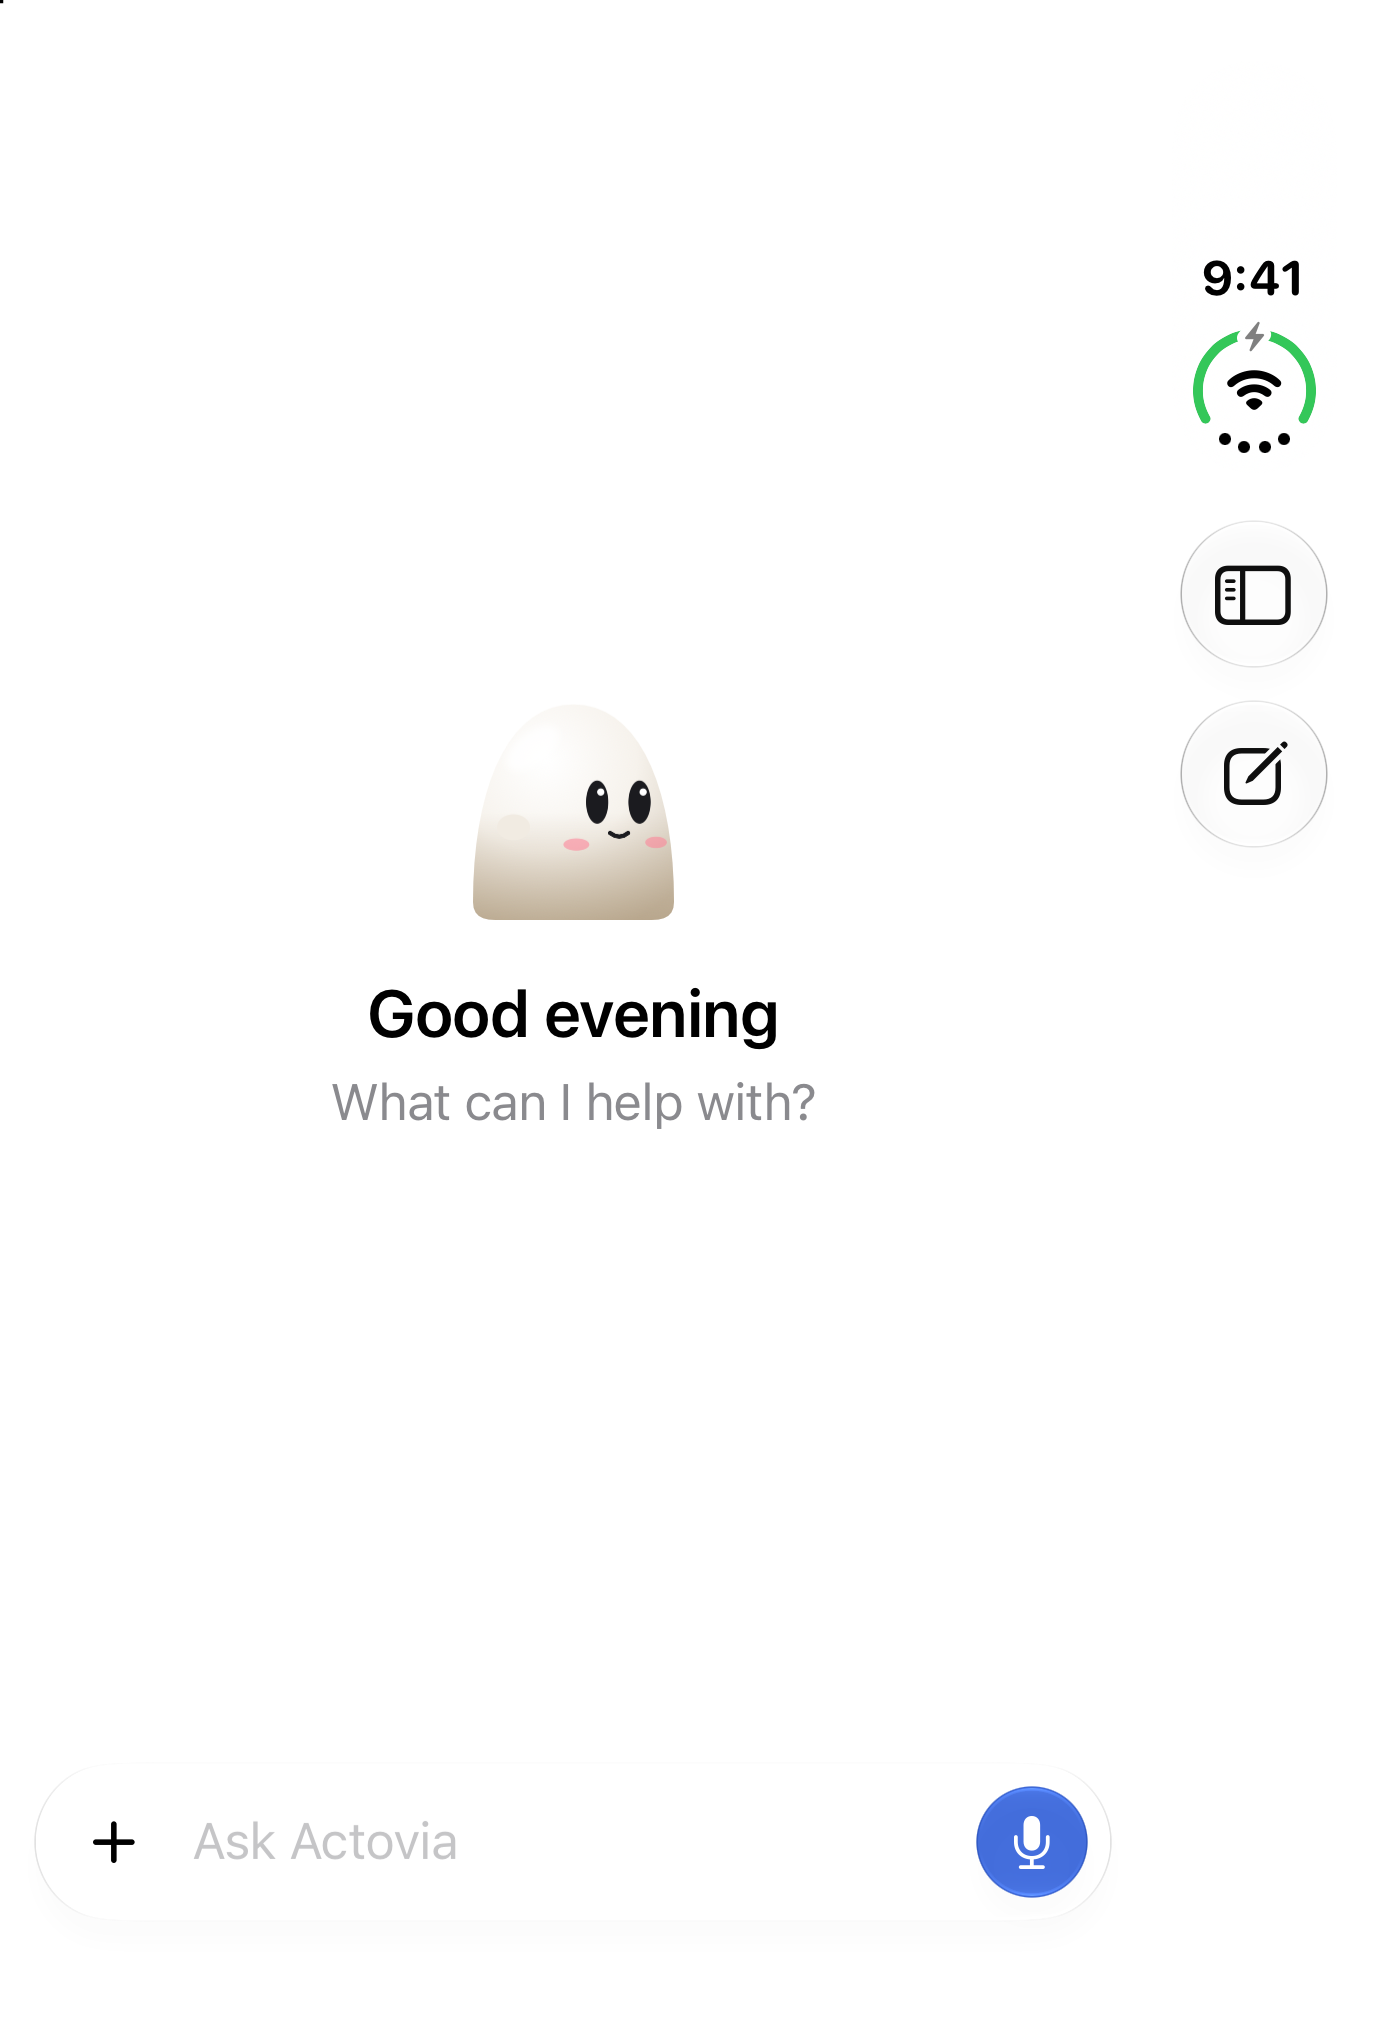
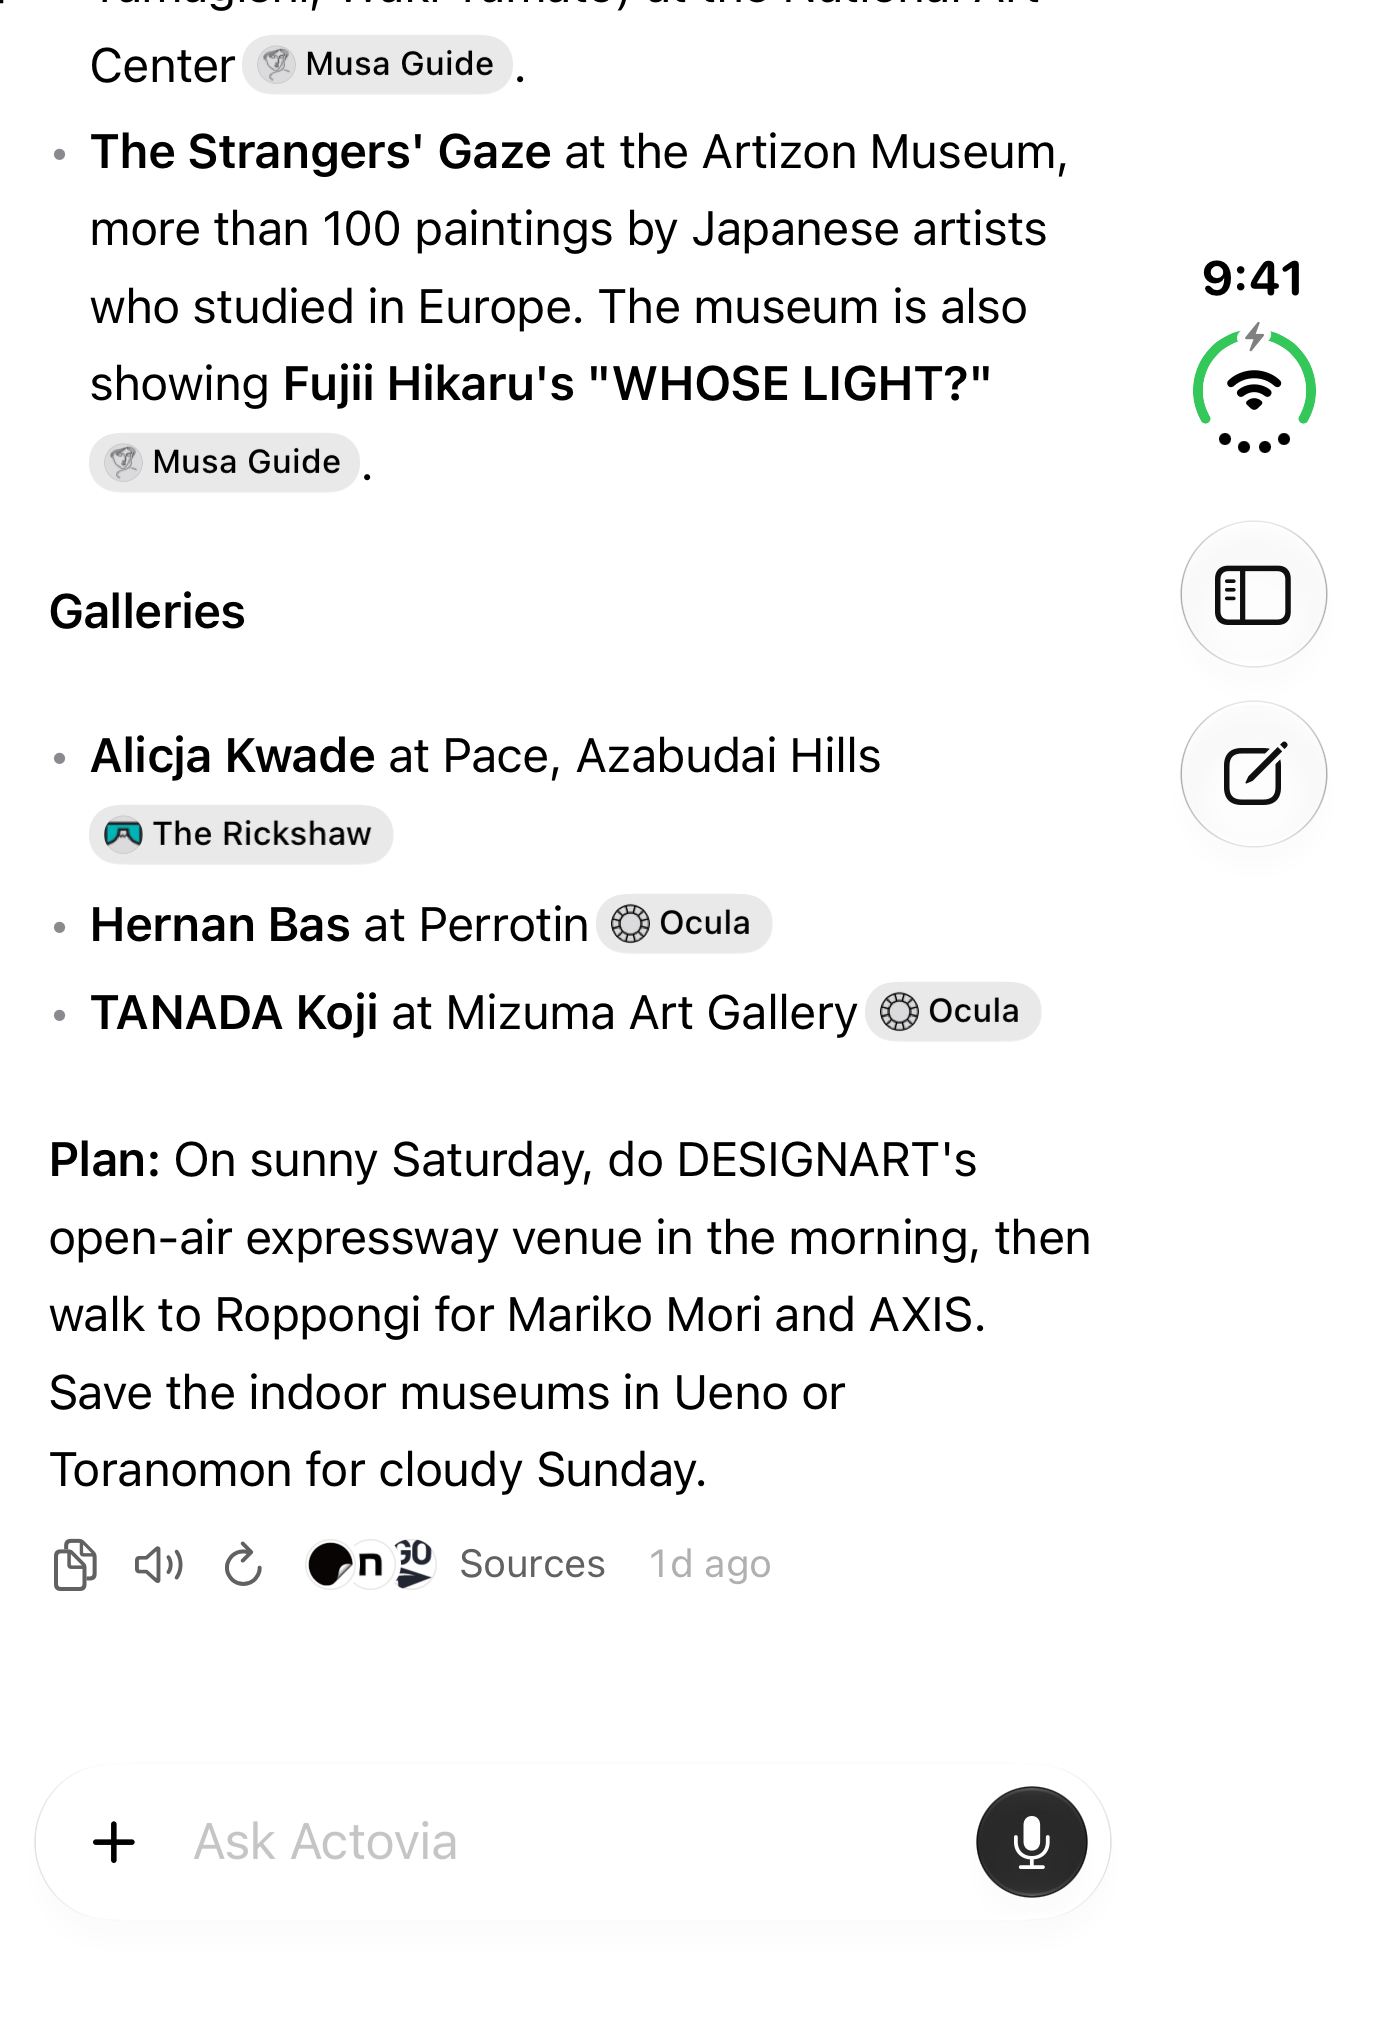
fix: show real Duo chats in both color schemes

diff --git a/app/_components/iphone-duo.tsx b/app/_components/iphone-duo.tsx
@@ -84,13 +84,19 @@ export function IPhoneDuo() {
                   <Face side="right" />
                 </div>
                 <div className={styles.back}>
-                  <Image
-                    src="/shots/duo-folded.png"
-                    alt=""
-                    fill
-                    sizes="(max-width: 1024px) 50vw, 360px"
-                    className={styles.folded}
-                  />
+                  <picture className={styles.picture}>
+                    <source
+                      srcSet="/shots/duo-folded-dark.png"
+                      media="(prefers-color-scheme: dark)"
+                    />
+                    <Image
+                      src="/shots/duo-folded.png"
+                      alt=""
+                      fill
+                      sizes="(max-width: 1024px) 50vw, 360px"
+                      className={styles.folded}
+                    />
+                  </picture>
                 </div>
               </div>
             </div>
@@ -103,13 +109,19 @@ export function IPhoneDuo() {
 
 function Face({ side }: { side: 'left' | 'right' }) {
   return (
-    <Image
-      src="/shots/duo-open.png"
-      alt=""
-      width={2853}
-      height={2007}
-      sizes="(max-width: 1024px) 90vw, 800px"
-      className={`${styles.face} ${side === 'right' ? styles.faceRight : ''}`}
-    />
+    <picture className={styles.picture}>
+      <source
+        srcSet="/shots/duo-open-dark.png"
+        media="(prefers-color-scheme: dark)"
+      />
+      <Image
+        src="/shots/duo-open.png"
+        alt=""
+        width={2853}
+        height={2007}
+        sizes="(max-width: 1024px) 90vw, 800px"
+        className={`${styles.face} ${side === 'right' ? styles.faceRight : ''}`}
+      />
+    </picture>
   )
 }

diff --git a/app/_components/iphone-duo.module.css b/app/_components/iphone-duo.module.css
@@ -99,3 +99,10 @@
     min-height: 0;
   }
 }
+
+/* The picture needs a real box for native lazy loading in the rotating faces. */
+.picture {
+  position: absolute;
+  inset: 0;
+  display: block;
+}

diff --git a/docs/screenshot-shotlist.md b/docs/screenshot-shotlist.md
@@ -31,7 +31,7 @@ Ground rules for every capture: a demo data directory (`ACTOVIA_HOME=~/actovia-s
 | `chat-tones-grid`          | Desktop  | either | /docs/app/appearance            | The same short chat in four tones (Emerald, Blue, Rose, Orange), two light and two dark — a 2×2 collage.                                       | One short chat captured four times (Emerald/Blue light, Rose/Orange dark), combined into a 2×2 collage.                                                                                                                  | docs, homepage                             |
 | `ios-color-tone`           | iPhone   | dark   | /docs/app/appearance            | Color tone on iPhone: the seven swatches, Blue chosen, a chat preview tinted blue.                                                             | Settings → Color tone, Blue, dark mode.                                                                                                                                                                                  | docs                                       |
 | `settings-data-controls`   | Desktop  | light  | /docs/app/backups               | Settings → Data Controls: Automatic Backups on, Last Backup time, Recent Backups, Export / Import, and the Danger zone.                        | Automatic Backups on, at least two backups made.                                                                                                                                                                         | docs                                       |
-| `settings-chat-audit`      | Desktop  | light  | /docs/app/chat-audit            | Chat Audit: snapshot built, the “Prompt cache by run” preset in the SQL editor, the result table with Download CSV.                         | Build snapshot; run the “Prompt cache by run” preset.                                                                                                                                                                 | docs, homepage                             |
+| `settings-chat-audit`      | Desktop  | light  | /docs/app/chat-audit            | Chat Audit: snapshot built, the “Prompt cache by run” preset in the SQL editor, the result table with Download CSV.                            | Build snapshot; run the “Prompt cache by run” preset.                                                                                                                                                                    | docs, homepage                             |
 | `home-discover`            | Desktop  | light  | /docs/app/discover              | The home page with the greeting, the composer, and the Discover feed below: three topic rows of article cards, “updated … · Refresh”.          | Discover enabled, Brave key, memories with 3+ topics; wait for the feed.                                                                                                                                                 | docs                                       |
 | `settings-logger`          | Desktop  | dark   | /docs/app/logs                  | Settings → Logger: the level chart, a filtered list, and an error line open in the side sheet with its stack trace.                            | A day with an error logged (e.g. a bad key); open it in the side sheet.                                                                                                                                                  | docs                                       |
 | `chat-citations`           | Desktop  | light  | /docs/chat/answers              | An answer with citation chips; one chip's hover card open on “Reuters +2” showing 2/3 and the pager arrows.                                    | Brave key. Ask “Why did US stocks fall today?” or similar; hover a chip that reads “X +2”, page to 2/3.                                                                                                                  | docs, homepage                             |
@@ -129,7 +129,7 @@ Checked against Apple's _Screenshot specifications_, _App preview specifications
 | iPhone with Face ID, large display             | Only required if neither Dynamic Island size above is provided                           | 1284×2778 / 1242×2688                 | — (skip; covered by the above)                                                |
 | iPhone Duo (outer 1398×2034, inner 2007×2853)  | Optional now; **required from April 2027** for apps built with the iOS 27.1 SDK or later | as listed                             | when a Duo Simulator is available                                             |
 
-**iPhone only.** The app ships for iPhone only for now (the iOS target is being narrowed to iPhone), so no iPad screenshots or previews are needed. Only the iPhone sizes are listed here.
+**iPhone and iPad.** The native app now supports both families. The table above covers phone assets; check current App Store Connect requirements for iPad assets before a release.
 
 ### App previews (optional)
 
@@ -157,3 +157,7 @@ App Store screenshots are usually framed with a one-line headline above the devi
 - App icon 1024×1024 — already generated: `brand/ios/AppIcon.appiconset` in the desktop repo (light, dark, tinted; no alpha).
 - Name (2–30 characters), subtitle (≤ 30 characters), promotional text (≤ 170 characters), description (≤ 4000 characters), keywords (≤ **100 bytes**, not characters — a CJK localization fits about a third as many; each keyword longer than two characters), What's New (≤ 4000 characters), support URL and marketing URL (`https://actovia.yancey.app`), privacy policy URL — and the App Privacy answers, which must cover Apple Health data (read on device; a daily summary sent to the user's own computer and on to the AI provider they configured).
 - App Review notes: the app does nothing without a paired desktop. Give the reviewer a way in — a demo video of pairing, or a reachable demo computer with a pairing link — or review will stall.
+
+### Duo homepage captures (2026-11-01)
+
+`duo-open.png`, `duo-open-dark.png`, `duo-folded.png` and `duo-folded-dark.png` are genuine iPhone Duo Simulator captures of the curated Tokyo weather/art conversation. The sidebar contains only curated demo chats. Both faces select the dark file with `prefers-color-scheme`, without waiting for client hydration. Capture both themes from the same conversation and fold state when replacing them.

diff --git a/README.md b/README.md
@@ -1,35 +1,32 @@
-# Actovia homepage
+# Actovia website and documentation
 
-The product page for [Actovia](https://github.com/actovia-ai/actovia), in the
-style of an Apple product page: a pinned product bar, a hero with the app
-icon and window, alternating light and dark chapters, a pinned scroll story,
-Tech specs, downloads, and the name edge to edge at the bottom.
+[actovia.yancey.app](https://actovia.yancey.app) is the product homepage and Fumadocs user guide for the [desktop app](https://github.com/actovia-ai/actovia), [native iOS companion](https://apps.apple.com/app/actovia/id6824829679) and [CLI](https://github.com/actovia-ai/cli).
+
+The homepage includes platform downloads, the product gallery, use cases, Philharmonic, Health and a scroll-linked iPhone Duo fold. The compact navigation bar links to sections; the logo returns to the page top. The official App Store badge and all iOS links use a region-neutral App Store URL.
+
+## Develop
 
 ```bash
 pnpm install
 pnpm dev      # http://localhost:3000
 pnpm lint
+pnpm exec tsc --noEmit
 pnpm build
+pnpm start    # preview the production build
 ```
 
-## Screenshots
+Read `AGENTS.md` and the relevant Next.js documentation under `node_modules/next/dist/docs/` before framework changes. The installed Next.js version is the source of truth.
 
-Every screenshot is listed in `app/_lib/shots.ts` with what to capture and at
-what size. Until a file exists, the page shows a window-shaped placeholder
-that says the same. To fill one in, capture the Actovia window at 2x (on macOS,
-⌘⇧4 then Space, and hold Option while clicking to leave out the shadow),
-export it at the listed size, and save it under `public/` at the listed path.
-Each shot has a light and a dark capture: `name.png` in light mode and
-`name-dark.png` in dark mode, and visitors see the one for their system (shots
-marked `darkOnly` sit on black sections and need only the dark one). If one is
-missing the other is used for both. The page picks new files up on the next
-build.
+## Content and screenshots
 
-## Brand
+- `app/(site)/page.tsx` and `app/_components/` contain the marketing page.
+- `content/docs/` contains MDX guides; `components/screenshot.tsx` renders documentation captures.
+- `app/_lib/shots.ts` lists marketing screenshots. `docs/screenshot-shotlist.md` describes capture requirements.
+- Put light captures in `public/shots/name.png` and dark captures in `name-dark.png`. Match the same scene, theme and dimensions; open a real conversation rather than an empty chat. The Duo fold needs both folded and open views in both themes.
+- `public/brand/` and `app` icons come from the desktop repo's `bun run icons`. Provider logos are LobeHub's AI brand SVGs (MIT).
 
-`public/brand/` holds the Ody app icon (the Icon Composer Liquid Glass export)
-and Ody's layers, and `app/icon.svg`, `app/favicon.ico`, `app/apple-icon.png`
-and `app/opengraph-image.png` are the web set. All of them are generated in
-the app repo by `bun run icons` (`brand/`); copy them over after a change.
-Provider marks in `public/provider-logos/` are LobeHub's AI brand icons
-(`@lobehub/icons-static-svg`, MIT).
+Never place API keys, personal chat exports or simulator data in this repository. Use curated demo conversations for public screenshots.
+
+## Deployment
+
+The repository includes OpenNext/Cloudflare scripts (`pnpm preview`, `pnpm deploy`) as well as the standard Next.js build used by the configured hosting platform. Keep deployment credentials and project linkage outside source control. A source commit does not itself verify that production has deployed; inspect the host's deployment result separately.

diff --git a/AGENTS.md b/AGENTS.md
@@ -1,0 +1,9 @@
+<!-- BEGIN:nextjs-agent-rules -->
+
+## This is NOT the Next.js you know
+
+This version has breaking changes — APIs, conventions, and file structure may all differ from your training data. Read the relevant guide in `node_modules/next/dist/docs/` (resolved from this file's directory; in monorepos the `next` package may not be visible from the repo root) before writing any code. Heed deprecation notices.
+
+This block is written and re-added by `next dev` — verify at `node_modules/next/dist/server/lib/generate-agent-files.js`. Removing it from a diff only re-creates the uncommitted change; committing it with your work keeps the tree clean.
+
+<!-- END:nextjs-agent-rules -->
